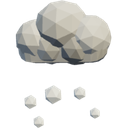
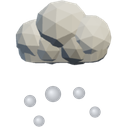
Ícono de granizo con piedras redondas
Claude-Session: https://claude.ai/code/session_016wMwLY3f1z4vnxgi1b2ti2

diff --git a/app.html b/app.html
@@ -651,7 +651,7 @@ html[data-twa] #pmPais,html[data-twa] .pmp,html[data-twa] .pmpg,html[data-twa] #
     .top .wrap{gap:8px}.seg{flex:none}.seg button{padding:6px 9px;font-size:12.5px}
   }
   @media (max-width:400px){.seg button{font-size:0;padding:7px 11px}.seg button::after{content:attr(data-set);font-size:12.500px;text-transform:uppercase;font-weight:700}}
-</style><symbol id="i-ok" viewBox="0 0 64 64"><image href="/assets/ic/ok.png" x="0" y="0" width="64" height="64"/></symbol><symbol id="i-riesgo" viewBox="0 0 64 64"><image href="/assets/ic/alerta.png" x="0" y="0" width="64" height="64"/></symbol><symbol id="i-granizo" viewBox="0 0 64 64"><image href="/assets/ic/granizo.png" x="0" y="0" width="64" height="64"/></symbol><symbol id="i-chuva" viewBox="0 0 64 64"><image href="/assets/ic/chuva-raio.png" x="0" y="0" width="64" height="64"/></symbol><symbol id="i-vendaval" viewBox="0 0 64 64"><image href="/assets/ic/vendaval.png" x="0" y="0" width="64" height="64"/></symbol><symbol id="i-calor" viewBox="0 0 64 64"><g fill="none" stroke="currentColor" stroke-width="4.200" stroke-linecap="round" stroke-linejoin="round"><circle cx="23" cy="25" r="8"/><path d="M23 9v4M23 37v4M7 25h4M35 25h3M12 14l3 3M12 36l3-3M34 14l-3 3"/><rect x="43" y="10" width="9" height="32" rx="4.500"/><circle class="f" cx="47.500" cy="49" r="7"/></g></symbol><symbol id="i-frio" viewBox="0 0 64 64"><g fill="none" stroke="currentColor" stroke-width="4.200" stroke-linecap="round" stroke-linejoin="round"><rect x="16" y="8" width="9" height="34" rx="4.500"/><circle class="f" cx="20.500" cy="49" r="7.500"/><path d="M44 12v36M35 39l9 10 9-10"/></g></symbol><symbol id="i-geada" viewBox="0 0 64 64"><g fill="none" stroke="currentColor" stroke-width="4.200" stroke-linecap="round" stroke-linejoin="round"><path d="M32 8v48M11 20l42 24M53 20 11 44M26 12l6 6 6-6M26 52l6-6 6 6M12 28l8-2-2-8M52 36l-8 2 2 8M52 28l-8-2 2-8M12 36l8 2-2 8"/></g></symbol><symbol id="i-raios" viewBox="0 0 64 64"><image href="/assets/ic/tempestade.png" x="0" y="0" width="64" height="64"/></symbol><symbol id="i-seca" viewBox="0 0 64 64"><g fill="none" stroke="currentColor" stroke-width="4.200" stroke-linecap="round" stroke-linejoin="round"><circle cx="32" cy="18" r="8"/><path d="M32 3v3M17 18h3M44 18h3M21 7l2 2M43 7l-2 2"/><path d="M6 44h52M6 58h52"/><path d="M22 44l-4 7 5 7M40 44l5 6-4 8M31 44l2 14"/></g></symbol></svg>
+</style><symbol id="i-ok" viewBox="0 0 64 64"><image href="/assets/ic/ok.png" x="0" y="0" width="64" height="64"/></symbol><symbol id="i-riesgo" viewBox="0 0 64 64"><image href="/assets/ic/alerta.png" x="0" y="0" width="64" height="64"/></symbol><symbol id="i-granizo" viewBox="0 0 64 64"><image href="/assets/ic/granizo.png?v=2" x="0" y="0" width="64" height="64"/></symbol><symbol id="i-chuva" viewBox="0 0 64 64"><image href="/assets/ic/chuva-raio.png" x="0" y="0" width="64" height="64"/></symbol><symbol id="i-vendaval" viewBox="0 0 64 64"><image href="/assets/ic/vendaval.png" x="0" y="0" width="64" height="64"/></symbol><symbol id="i-calor" viewBox="0 0 64 64"><g fill="none" stroke="currentColor" stroke-width="4.200" stroke-linecap="round" stroke-linejoin="round"><circle cx="23" cy="25" r="8"/><path d="M23 9v4M23 37v4M7 25h4M35 25h3M12 14l3 3M12 36l3-3M34 14l-3 3"/><rect x="43" y="10" width="9" height="32" rx="4.500"/><circle class="f" cx="47.500" cy="49" r="7"/></g></symbol><symbol id="i-frio" viewBox="0 0 64 64"><g fill="none" stroke="currentColor" stroke-width="4.200" stroke-linecap="round" stroke-linejoin="round"><rect x="16" y="8" width="9" height="34" rx="4.500"/><circle class="f" cx="20.500" cy="49" r="7.500"/><path d="M44 12v36M35 39l9 10 9-10"/></g></symbol><symbol id="i-geada" viewBox="0 0 64 64"><g fill="none" stroke="currentColor" stroke-width="4.200" stroke-linecap="round" stroke-linejoin="round"><path d="M32 8v48M11 20l42 24M53 20 11 44M26 12l6 6 6-6M26 52l6-6 6 6M12 28l8-2-2-8M52 36l-8 2 2 8M52 28l-8-2 2-8M12 36l8 2-2 8"/></g></symbol><symbol id="i-raios" viewBox="0 0 64 64"><image href="/assets/ic/tempestade.png" x="0" y="0" width="64" height="64"/></symbol><symbol id="i-seca" viewBox="0 0 64 64"><g fill="none" stroke="currentColor" stroke-width="4.200" stroke-linecap="round" stroke-linejoin="round"><circle cx="32" cy="18" r="8"/><path d="M32 3v3M17 18h3M44 18h3M21 7l2 2M43 7l-2 2"/><path d="M6 44h52M6 58h52"/><path d="M22 44l-4 7 5 7M40 44l5 6-4 8M31 44l2 14"/></g></symbol></svg>
 <div class="hero" id="hero">
   <!-- nubes: textura generada con ruido, sin imágenes externas -->
   <div class="clouds c1" aria-hidden="true">

diff --git a/planos/index.html b/planos/index.html
@@ -7,7 +7,7 @@
 <meta name="theme-color" content="#142235"><link rel="preconnect" href="https://fonts.googleapis.com"><link rel="stylesheet" href="https://fonts.googleapis.com/css2?family=IBM+Plex+Sans:wght@600;700&family=Inter:wght@400;600;700&display=swap"><link rel="icon" href="/favicon.ico" sizes="32x32"><link rel="icon" href="/icon-192.png" type="image/png"><link rel="stylesheet" href="/assets/site.css?v=30">
 </head>
 <body data-tit-es="Planes y precios · Aviso Sul">
-<svg class="svg-hide" aria-hidden="true"><symbol id="i-riesgo" viewBox="0 0 64 64"><image href="/assets/ic/alerta.png" x="0" y="0" width="64" height="64"/></symbol><symbol id="i-granizo" viewBox="0 0 64 64"><image href="/assets/ic/granizo.png" x="0" y="0" width="64" height="64"/></symbol><symbol id="i-chuva" viewBox="0 0 64 64"><image href="/assets/ic/chuva-raio.png" x="0" y="0" width="64" height="64"/></symbol><symbol id="i-vendaval" viewBox="0 0 64 64"><image href="/assets/ic/vendaval.png" x="0" y="0" width="64" height="64"/></symbol><symbol id="i-raios" viewBox="0 0 64 64"><image href="/assets/ic/tempestade.png" x="0" y="0" width="64" height="64"/></symbol></svg>
+<svg class="svg-hide" aria-hidden="true"><symbol id="i-riesgo" viewBox="0 0 64 64"><image href="/assets/ic/alerta.png" x="0" y="0" width="64" height="64"/></symbol><symbol id="i-granizo" viewBox="0 0 64 64"><image href="/assets/ic/granizo.png?v=2" x="0" y="0" width="64" height="64"/></symbol><symbol id="i-chuva" viewBox="0 0 64 64"><image href="/assets/ic/chuva-raio.png" x="0" y="0" width="64" height="64"/></symbol><symbol id="i-vendaval" viewBox="0 0 64 64"><image href="/assets/ic/vendaval.png" x="0" y="0" width="64" height="64"/></symbol><symbol id="i-raios" viewBox="0 0 64 64"><image href="/assets/ic/tempestade.png" x="0" y="0" width="64" height="64"/></symbol></svg>
 <header class="top">
   <div class="wrap">
     <a class="marca" href="/"><img src="/assets/logo-nube-96.png?v=2" alt="" width="40" height="40"><span class="wm"><span class="nm-br">Aviso <em>Sul</em></span><span class="nm-ar">Alerta <em>Sur</em></span></span></a>

diff --git a/index.html b/index.html
@@ -16,7 +16,7 @@
 <link rel="preconnect" href="https://fonts.googleapis.com"><link rel="stylesheet" href="https://fonts.googleapis.com/css2?family=IBM+Plex+Sans:wght@600;700&family=Inter:wght@400;600;700&family=Poppins:wght@800&display=swap"><link rel="icon" href="/favicon.ico" sizes="32x32"><link rel="icon" href="/icon-192.png" type="image/png"><link rel="stylesheet" href="/assets/site.css?v=30">
 </head>
 <body data-tit-es="Aviso Sul · Alerta de temporal, granizo y viento en el Sur de Brasil" data-tit-ar="Alerta Sur · Alertas de granizo y tormenta en Córdoba">
-<svg class="svg-hide" aria-hidden="true"><symbol id="i-riesgo" viewBox="0 0 64 64"><image href="/assets/ic/alerta.png" x="0" y="0" width="64" height="64"/></symbol><symbol id="i-granizo" viewBox="0 0 64 64"><image href="/assets/ic/granizo.png" x="0" y="0" width="64" height="64"/></symbol><symbol id="i-chuva" viewBox="0 0 64 64"><image href="/assets/ic/chuva-raio.png" x="0" y="0" width="64" height="64"/></symbol><symbol id="i-vendaval" viewBox="0 0 64 64"><image href="/assets/ic/vendaval.png" x="0" y="0" width="64" height="64"/></symbol><symbol id="i-raios" viewBox="0 0 64 64"><image href="/assets/ic/tempestade.png" x="0" y="0" width="64" height="64"/></symbol></svg>
+<svg class="svg-hide" aria-hidden="true"><symbol id="i-riesgo" viewBox="0 0 64 64"><image href="/assets/ic/alerta.png" x="0" y="0" width="64" height="64"/></symbol><symbol id="i-granizo" viewBox="0 0 64 64"><image href="/assets/ic/granizo.png?v=2" x="0" y="0" width="64" height="64"/></symbol><symbol id="i-chuva" viewBox="0 0 64 64"><image href="/assets/ic/chuva-raio.png" x="0" y="0" width="64" height="64"/></symbol><symbol id="i-vendaval" viewBox="0 0 64 64"><image href="/assets/ic/vendaval.png" x="0" y="0" width="64" height="64"/></symbol><symbol id="i-raios" viewBox="0 0 64 64"><image href="/assets/ic/tempestade.png" x="0" y="0" width="64" height="64"/></symbol></svg>
 
 <header class="top">
   <div class="wrap">

diff --git a/sw.js b/sw.js
@@ -1,7 +1,7 @@
 /* Aviso Sul: permite instalar la pagina y abrirla sin conexion.
    Subir el numero de VERSION en cada publicacion para que los celulares tomen la pagina nueva. */
 var VERSION='avisosul-20261127v';
-var BASE=['/','/app/','/app.html','/assets/site.css','/assets/site.js','/manifest.webmanifest','/icon-192.png','/icon-512.png','/assets/logo-nube-96.png','/assets/logo-nube.png','/assets/cielo.svg','/assets/ic/granizo.png','/assets/ic/chuva-raio.png','/assets/ic/vendaval.png','/assets/ic/tempestade.png','/assets/ic/alerta.png','/assets/ic/ok.png'];
+var BASE=['/','/app/','/app.html','/assets/site.css','/assets/site.js','/manifest.webmanifest','/icon-192.png','/icon-512.png','/assets/logo-nube-96.png','/assets/logo-nube.png','/assets/cielo.svg','/assets/ic/granizo.png?v=2','/assets/ic/chuva-raio.png','/assets/ic/vendaval.png','/assets/ic/tempestade.png','/assets/ic/alerta.png','/assets/ic/ok.png'];
 self.addEventListener('install',function(e){e.waitUntil(caches.open(VERSION).then(function(c){return c.addAll(BASE)}).then(function(){return self.skipWaiting()}))});
 self.addEventListener('activate',function(e){e.waitUntil(caches.keys().then(function(k){return Promise.all(k.filter(function(n){return n!==VERSION}).map(function(n){return caches.delete(n)}))}).then(function(){return self.clients.claim()}))});
 /* Primero la red, para mostrar siempre la version mas nueva; si no hay conexion, la copia guardada. */
